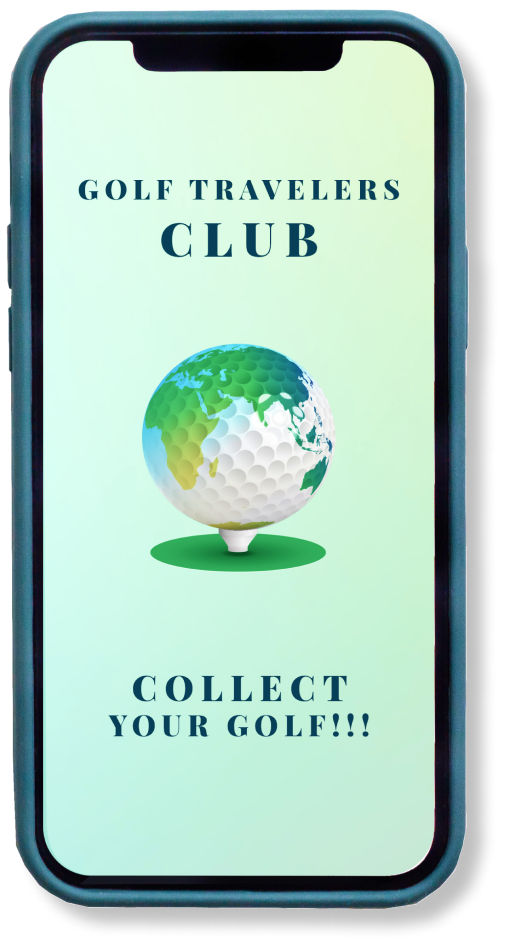
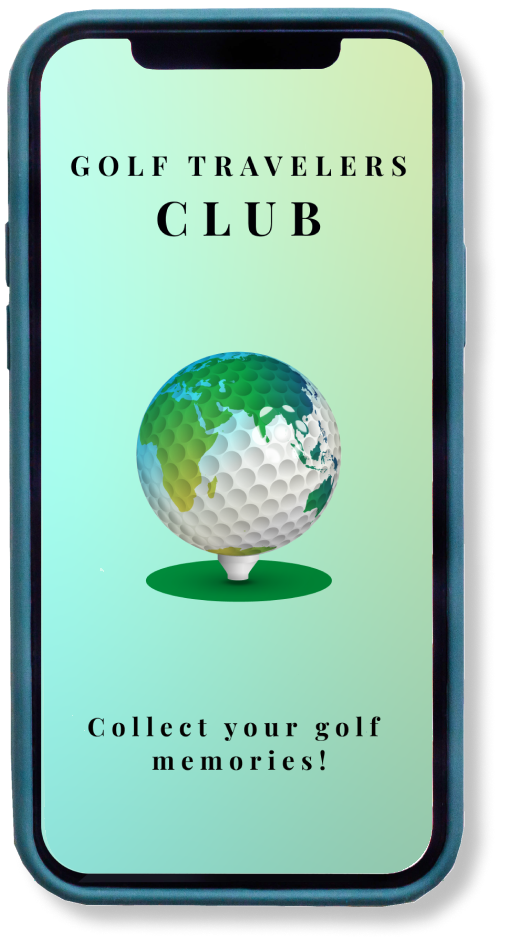
Новые измения

diff --git a/src/App.tsx b/src/App.tsx
@@ -15,14 +15,15 @@ function App() {
                             <div className='about_us'>
                                 <h2 className='title_about'>About us</h2>
                                 <div className='subtitle_about'>
-                                    <p>The idea for this application came to us - a group of golf friends</p>
-                                    <p>from different countries who like to travel,</p>
-                                    <p>discover new places and new golf courses.</p>
-                                    <p>Each of us has played in more than 30, 40, 50 countries.</p>
-                                    <p>And when somebody asked</p>
-                                    <p>– How many countries and golf courses did you play?</p>
-                                    <p>– there was no exact answer.</p>
-                                    <p>Most golfers don’t want to waste time to record their statistics</p>
+                                    <p>We are a group of friends from different countries</p>
+                                    <p>who love to travel, discover new places and enjoy</p>
+                                    <p>different golf courses.</p>
+                                    <p>Each of us has played golf in over 30, 40, 50 countries.</p>
+                                    <p>And when someone asks - how many countries and</p>
+                                    <p>how many golf courses have you played in?</p>
+                                    <p>There is no exact answer.</p>
+                                    <p>Most golfers don't want to take the time to write</p>
+                                    <p>own their stats.</p>
                                 </div>
                             </div>
                         </div>
@@ -32,11 +33,13 @@ function App() {
                     <div className='container'>
                         <div className='our_app_title'>
                             <p>Our application will help such people.</p>
-                            <p>Now golfers can easily create <span
-                                className='green_text'>a LIFETIME COLLECTION OF</span></p>
+                            <p>Golfers now have access to a database of</p>
+                            <p>36,000+ golf courses,</p>
+                            <p>3,000+ 5-star hotels</p>
+                            <p>around the world</p>
+                            <p>and the ability to create a lifetime collection</p>
                             <p><span
-                                className='green_text'>THEIR COUNTRIES AND GOLF CLUBS</span> they
-                                have played in.</p>
+                                className='green_text'>OF THE COUNTRIES AND GOLF CLUBS</span> they have played in.</p>
                         </div>
                     </div>
                 </div>
@@ -45,14 +48,14 @@ function App() {
                         <div className='phone_container'>
                             <div className='title_our_app'>
                                 <div className='our_app_subtitle'>
-                                    <p>The reward will be the</p>
-                                    <p className='green_text'>PERSONAL CERTIFICATE OF ACHIEVEMENTS</p>
-                                    <p>which Golfers can send to their friends, business partners.</p>
-                                    <p>They can print it out and hang it in</p>
-                                    <p>a beautiful frame at home or in the office.</p>
+                                    <p>The reward will be</p>
+                                    <p className='green_text'>A PERSONALIZED CERTIFICATE OF ACHIEVEMENT</p>
+                                    <p>which golfers will be able to send to their friends,</p>
+                                    <p>business associates</p>
+                                    <p>They can print it out and hang it in a nice frame in</p>
+                                    <p>their home or office</p>
                                     <div className='good_luck'>
-                                        <p className='green_text'>Good luck</p>
-                                        <p className='green_text'>and enjoy your golf travels!</p>
+                                        <p className='green_text'>Make golf the best memory of your life!</p>
                                     </div>
                                 </div>
                                 <div className='qr_codes'>
@@ -79,12 +82,12 @@ function App() {
                     </div>
                     <div className='cards'>
                         <Card
-                            linkA4='https://drive.google.com/file/d/1q8FNnzdyA71YgY8r1Efgds2imwaIuIeO/view?usp=drive_link'
-                            linkA5='https://drive.google.com/file/d/1s27YbJBy-2wyfM8dRHimSyH0Uwjknr0X/view?usp=drive_link'
+                            linkA4='https://drive.google.com/file/d/1YxYb84aqoVLMzEDrnllz8n_7QoEsCXuy/view?usp=drive_link'
+                            linkA5='https://drive.google.com/file/d/1h24UAvQbo1QJHLRxsIjfpWYimh34-JVZ/view?usp=drive_link'
                             title='FOR GOLF CLUBS'/>
                         <Card
-                            linkA4='https://drive.google.com/file/d/1Xe4hExIX7ScPURnac6TfMb9pNSI7bP_E/view?usp=drive_link'
-                            linkA5='https://drive.google.com/file/d/1e4itmkxleM-hx0ccSmhAD8ZYc4AqcZGU/view?usp=drive_link'
+                            linkA4='https://drive.google.com/file/d/1yO3jNONs0CzWxdKZtfQa36f-MrLQD2hS/view?usp=drive_link'
+                            linkA5='https://drive.google.com/file/d/1bDSq78_IV8FAntCcQ7Ny8nYT8bFc8rKF/view?usp=drive_link'
                             title='FOR GOLF HOTELS'/>
                     </div>
                     <div className='support'>
